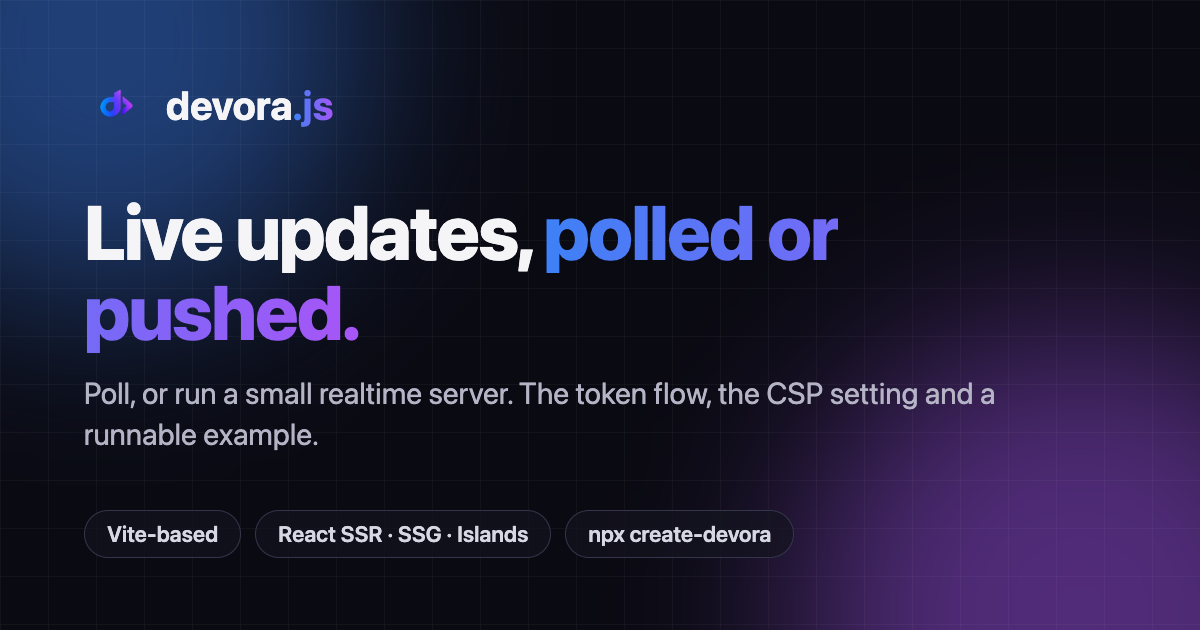
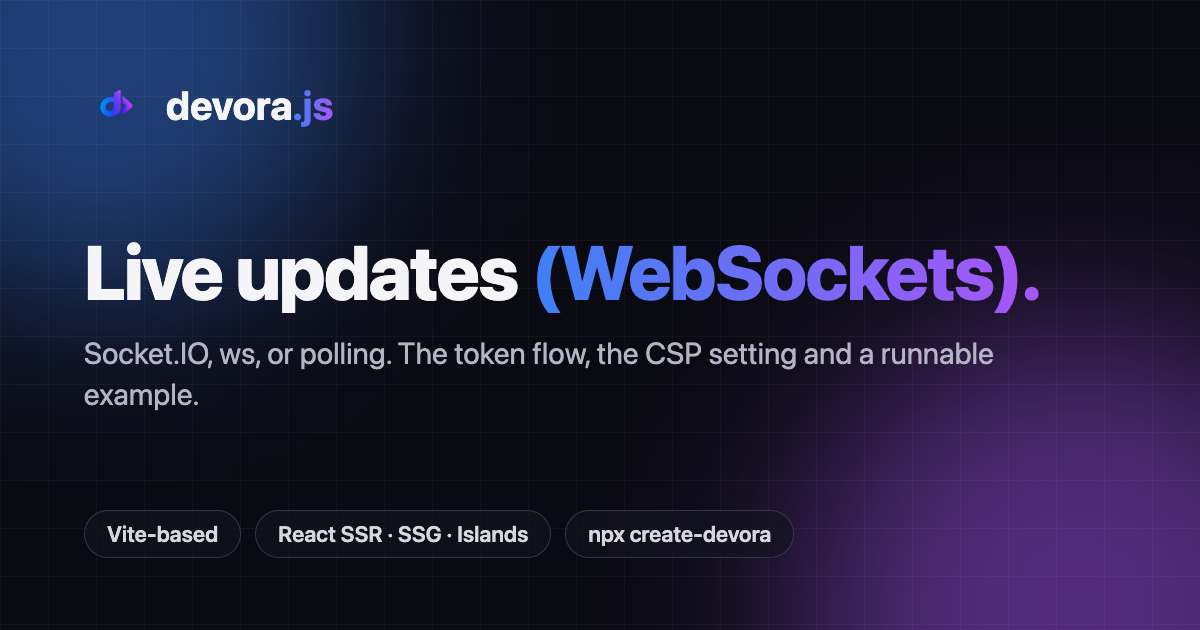
site: rename the guide to 'Live updates (WebSockets)' everywhere it is named; add the ws wrapper section and why SSE does not work yet

Changed region(s): [[0.0617, 0.3016, 0.8633, 0.7238]]

diff --git a/apps/docs/routes/live-updates.tsx b/apps/docs/routes/live-updates.tsx
@@ -3,14 +3,15 @@ import { DOCS_NAV } from "../nav.js";
 import { SiteFooter } from "../site-footer.js";
 import { DocsLayout, Callout } from "../docs-layout.js";
 import { pageMeta } from "../seo.js";
+import snippets from "../data/jobs-snippets.json";
 
 export const renderMode = "ssg";
 
 export function meta() {
   return pageMeta("/live-updates", {
-    title: "Live updates",
+    title: "Live updates (WebSockets)",
     description:
-      "Devora.js has no built-in WebSockets. Poll, or run a small separate realtime server: the token flow, the CSP setting and a runnable example.",
+      "WebSockets in Devora.js: a separate Socket.IO server, ws attached through a wrapper script, polling, and why server-sent events are not supported yet. The token flow, the CSP setting and a runnable example.",
     image: "/og/live-updates.png",
   });
 }
@@ -81,11 +82,16 @@ export default function LiveUpdates() {
   return (
     <PageShell nav={DOCS_NAV} footer={<SiteFooter />}>
       <DocsLayout active="live-updates">
-        <h1>Live updates</h1>
+        <h1>Live updates (WebSockets)</h1>
         <p className="devora-lead">
-          Devora.js has no built-in WebSockets or server-sent events. An API route returns one whole
-          response, and Vercel and Netlify functions cannot hold a connection open. Two things
-          work: poll, or run a small separate realtime server next to your app.
+          Devora.js has no built-in WebSockets, and server-sent events from an API route do not work
+          yet. An API route returns one whole response, and Vercel and Netlify functions cannot hold
+          a connection open. Three things work: poll, run a small separate realtime server next to
+          your app, or attach <code>ws</code> to the app's own server with a wrapper script.
+        </p>
+        <p>
+          This page covers WebSockets (Socket.IO and <code>ws</code>), polling, and why server-sent
+          events are not supported yet.
         </p>
 
         <h2>Polling or a realtime server?</h2>
@@ -176,6 +182,51 @@ export default function LiveUpdates() {
           Without it the console shows{" "}
           <code>Connecting to 'http://…/socket.io/…' violates the following Content Security Policy directive: "default-src 'self'"</code>{" "}
           and, with the fallback in place, the page keeps working by polling.
+        </p>
+
+        <h2>Or: ws on the app's own port</h2>
+        <p>
+          <code>devora start</code> does not expose the HTTP server it creates, and has no hook. But
+          the function it calls, <code>createNodeServer</code> from{" "}
+          <code>@devorajs/adapter-node</code>, is a public export that returns the{" "}
+          <code>http.Server</code>. A small script can call it and handle the WebSocket{" "}
+          <code>upgrade</code> itself, on the same port as the HTTP API. This ran on a local Node
+          server with 0.3.4: a bad token answered 401, a good one connected and echoed a message, and
+          the API and its security headers were unchanged. Not run on Vercel or Netlify (it cannot work
+          there: a function cannot hold a connection).
+        </p>
+        <div className="devora-card">
+          <pre style={{ margin: 0, whiteSpace: "pre-wrap" }}>{snippets.wsWrapper}</pre>
+        </div>
+        <ul>
+          <li>
+            Install <code>ws</code> and <code>@devorajs/adapter-node</code>, build the app, then run the
+            script instead of <code>devora start</code> (it sets <code>NODE_ENV=production</code> itself,
+            as <code>start</code> does).
+          </li>
+          <li>
+            The script repeats what <code>start</code> does: it loads the project and app config and passes
+            the same options. If <code>start</code> gains options, the script needs them too.
+          </li>
+          <li>
+            The upgrade request does not go through the app's routes. This script checks the session by
+            calling the app's own <code>GET /api/me</code> over loopback with the token; do the same
+            check, or the connection is open to anyone.
+          </li>
+          <li>
+            A server hook (an <code>onServer(server)</code> option) would remove the wrapper. It is
+            planned, not built.
+          </li>
+        </ul>
+
+        <h2>Server-sent events do not work yet</h2>
+        <p>
+          An API route can set <code>Content-Type: text/event-stream</code>, but the handler returns
+          its whole body as a string, and the server sends it in one piece when the handler finishes.
+          Tested: three events produced half a second apart arrived together after 1.5 seconds and the
+          connection closed, so a browser <code>EventSource</code> would reconnect over and over.
+          Returning a stream, an async iterable or a Node <code>Readable</code> as the body answers
+          500. Use polling or a realtime server until a route can return a stream.
         </p>
 
         <h2>Deploying it</h2>

diff --git a/apps/docs/routes/compare.tsx b/apps/docs/routes/compare.tsx
@@ -290,7 +290,7 @@ const BYO_GROUPS: MatrixGroup[] = [
               <>
                 A separate realtime server (Socket.IO) works; <code>ws</code> works through a small wrapper
                 around <code>createNodeServer</code>; server-sent events from an API route do not work yet:{" "}
-                <a href="/live-updates">Live updates</a>
+                <a href="/live-updates">Live updates (WebSockets)</a>
               </>
             ),
           },
@@ -597,8 +597,8 @@ export default function Compare({ data }) {
           <strong>Honest note:</strong> NestJS and Fastify are more complete "batteries included"
           backend frameworks today. Devora.js's backend is closer to Express's minimalism, with a
           JSON error contract, method checks and CORS that Express doesn't give you by default. For
-          live updates and background jobs it documents tested patterns, not built-ins:{" "}
-          <a href="/live-updates">Live updates</a>, <a href="/background-jobs">Background jobs</a>.
+          WebSockets and background jobs it documents tested patterns, not built-ins:{" "}
+          <a href="/live-updates">Live updates (WebSockets)</a>, <a href="/background-jobs">Background jobs</a>.
         </p>
       </section>
 
@@ -657,7 +657,7 @@ export default function Compare({ data }) {
           </li>
           <li>
             No built-in validation or rate limiting. WebSockets and background jobs are not built in
-            either, but both have tested setups: <a href="/live-updates">Live updates</a> and{" "}
+            either, but both have tested setups: <a href="/live-updates">Live updates (WebSockets)</a> and{" "}
             <a href="/background-jobs">Background jobs</a>. Server-sent events from an API route do not
             work yet.
           </li>

diff --git a/apps/docs/routes/examples.tsx b/apps/docs/routes/examples.tsx
@@ -11,7 +11,7 @@ export function meta() {
   return pageMeta("/examples", {
     title: "Examples and live demos",
     description:
-      "Four runnable Devora.js projects checked in CI — multi-app, a Bearer-token API, a content site, live updates — and the example apps deployed by the maintainer.",
+      "Four runnable Devora.js projects checked in CI — multi-app, a Bearer-token API, a content site, live updates (WebSockets) — and the example apps deployed by the maintainer.",
     image: "/og/examples.png",
   });
 }
@@ -59,11 +59,11 @@ const EXAMPLES = [
     accent: "#f59e0b",
     strong: "#b45309",
     icon: <><path d="M3 12h4l2-6 4 12 2-6h6" /></>,
-    title: "Live updates with a separate realtime server",
+    title: "Live updates (WebSockets) with a separate realtime server",
     shows: "A dashboard that updates without a reload: a login-protected token route, a small Socket.IO server with one room per user, a publish call from the app, a polling fallback, and the CSP setting that lets the browser connect.",
     apps: ["app · shared", "realtime/ · plain Node (Socket.IO)"],
     tutorial: "/live-updates",
-    tutorialLabel: "The Live updates guide",
+    tutorialLabel: "The Live updates (WebSockets) guide",
   },
 ];
 

diff --git a/apps/docs/docs-layout.tsx b/apps/docs/docs-layout.tsx
@@ -19,7 +19,7 @@ const DOCS_GROUPS = [
       { id: "pages-forms-errors", label: "Pages, forms and errors", href: "/pages-forms-errors" },
       { id: "backend", label: "Backend", href: "/backend" },
       { id: "backend-capabilities", label: "Backend capabilities", href: "/backend-capabilities" },
-      { id: "live-updates", label: "Live updates", href: "/live-updates" },
+      { id: "live-updates", label: "Live updates (WebSockets)", href: "/live-updates" },
       { id: "background-jobs", label: "Background jobs", href: "/background-jobs" },
       { id: "repo-splitting", label: "Repo-splitting", href: "/repo-splitting" },
     ],

diff --git a/apps/docs/routes/roadmap.tsx b/apps/docs/routes/roadmap.tsx
@@ -220,7 +220,7 @@ export default function Roadmap() {
             <h3 id="rm-not">Not planned</h3>
             <ul>
               <li>A built-in ORM, auth provider or file storage (bring your own).</li>
-              <li>A real-time sync engine (use a realtime server: <a href="/live-updates">Live updates</a>).</li>
+              <li>A real-time sync engine (use a realtime server: <a href="/live-updates">Live updates (WebSockets)</a>).</li>
               <li>A custom RSC-style server/client serialization protocol.</li>
             </ul>
           </section>

diff --git a/apps/docs/routes/upgrading.tsx b/apps/docs/routes/upgrading.tsx
@@ -132,7 +132,7 @@ export default function Upgrading() {
       <h1>Upgrading to 0.3.4</h1>
       <p>
         0.3.4 adds catch-all routes (<code>[...slug]</code>), a faster static-file path, and a
-        documented pattern for live updates. 0.3.3 was prepared but never published, so its
+        documented pattern for live updates (WebSockets). 0.3.3 was prepared but never published, so its
         changes are part of 0.3.4. If you are on 0.3.1 or older, the 0.3.2 changes are listed
         below too, since 0.3.2 was a large release.
       </p>

diff --git a/apps/docs/routes/background-jobs.tsx b/apps/docs/routes/background-jobs.tsx
@@ -165,7 +165,7 @@ export default function BackgroundJobs() {
         </Callout>
 
         <p>
-          For pushing a result to the browser when a job finishes, see <a href="/live-updates">Live updates</a>.
+          For pushing a result to the browser when a job finishes, see <a href="/live-updates">Live updates (WebSockets)</a>.
         </p>
       </DocsLayout>
     </PageShell>
